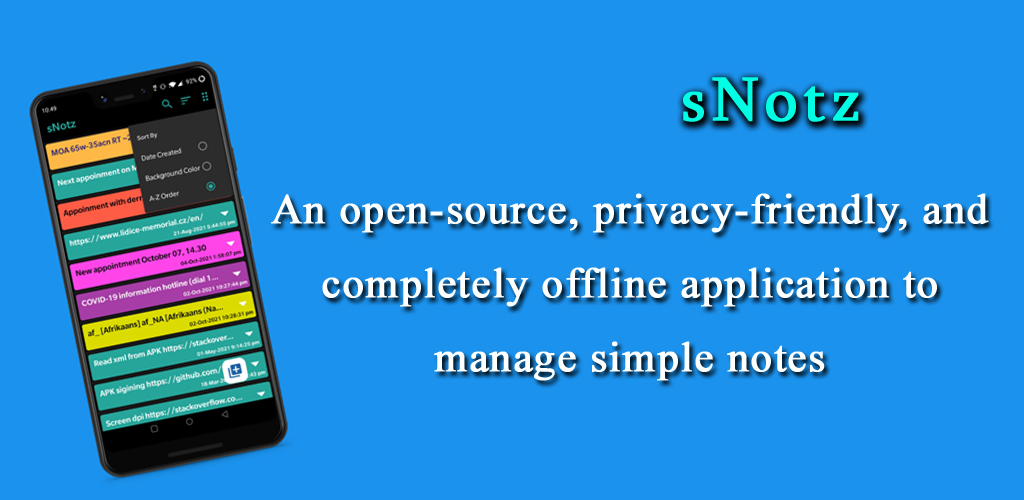
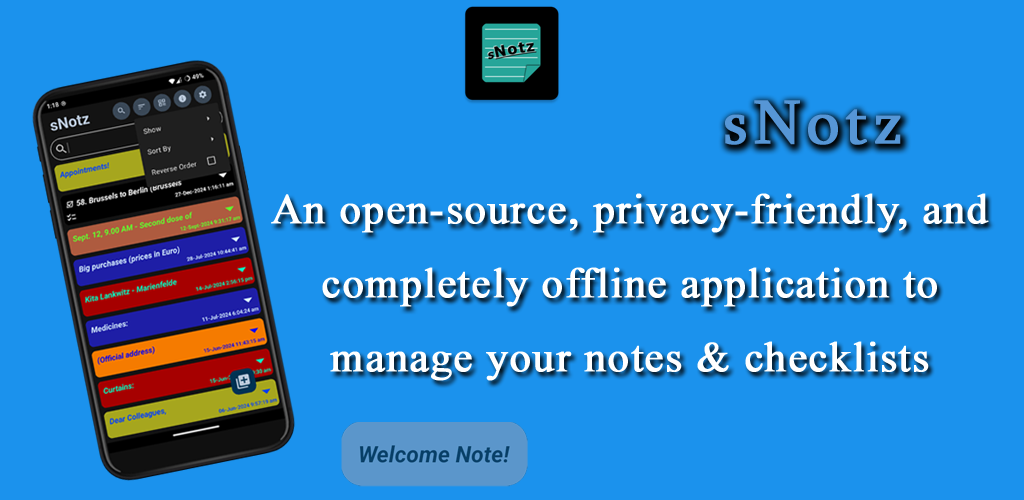
sNotz v0.32

diff --git a/app/src/main/java/com/sunilpaulmathew/snotz/activities/SettingsActivity.java b/app/src/main/java/com/sunilpaulmathew/snotz/activities/SettingsActivity.java
@@ -262,7 +262,7 @@ public class SettingsActivity extends AppCompatActivity {
                         sCommonUtils.getDrawable(R.mipmap.ic_launcher, this),
                         sCommonUtils.getDrawable(R.drawable.ic_back, this),
                         sNotzColor.getAppAccentColor(this),
-                        25, getString(R.string.app_name), "2023-2024, sunilpaulmathew",
+                        25, getString(R.string.app_name), getString(R.string.copyright_text),
                         BuildConfig.VERSION_NAME).launchCredits(this);
             }
         });
@@ -306,7 +306,7 @@ public class SettingsActivity extends AppCompatActivity {
 
     private ArrayList<SettingsItems> getData() {
         ArrayList<SettingsItems> mData = new ArrayList<>();
-        mData.add(new SettingsItems(getString(R.string.app_name) + " " + BuildConfig.VERSION_NAME + " (" + BuildConfig.VERSION_CODE + ")", "Copyright: © 2023-2024, sunilpaulmathew", sCommonUtils.getDrawable(R.drawable.ic_info, this), null));
+        mData.add(new SettingsItems(getString(R.string.app_name) + " " + BuildConfig.VERSION_NAME + " (" + BuildConfig.VERSION_CODE + ")", getString(R.string.copyright, getString(R.string.copyright_text)), sCommonUtils.getDrawable(R.drawable.ic_info, this), null));
         mData.add(new SettingsItems(getString(R.string.app_theme), sThemeUtils.getAppTheme(this), sCommonUtils.getDrawable(R.drawable.ic_theme, this), null));
         mData.add(new SettingsItems(getString(R.string.color_accent), getString(R.string.color_accent_summary), sCommonUtils.getDrawable(R.drawable.ic_rgb, this), null));
         mData.add(new SettingsItems(getString(R.string.security), null, null, null));

diff --git a/README.md b/README.md
@@ -1,12 +1,12 @@
-# sNotz
+# sNotz - Notes & Checklists
 
-<p style="text-align: center"><img src="https://raw.githubusercontent.com/sunilpaulmathew/sNotz/master/fastlane/metadata/android/en-US/images/phoneScreenshots/002.jpg" alt="" width="250" height="450" /> <img src="https://raw.githubusercontent.com/sunilpaulmathew/sNotz/master/fastlane/metadata/android/en-US/images/phoneScreenshots/001.jpg" alt="" width="250" height="450" /> <img src="https://raw.githubusercontent.com/sunilpaulmathew/sNotz/master/fastlane/metadata/android/en-US/images/phoneScreenshots/005.jpg" alt="" width="250" height="450" /></p>
+<p style="text-align: center"><img src="fastlane/metadata/android/en-US/images/phoneScreenshots/001.png?raw=true" alt="" width="250" height="450" /> <img src="fastlane/metadata/android/en-US/images/phoneScreenshots/002.png?raw=true" alt="" width="250" height="450" /> <img src="fastlane/metadata/android/en-US/images/phoneScreenshots/003.png?raw=true" alt="" width="250" height="450" /></p>
 
-[![](https://img.shields.io/badge/sNotz-v0.31-green)](https://play.google.com/store/apps/details?id=com.sunilpaulmathew.snotz)
+[![](https://img.shields.io/badge/sNotz-v0.32-green)](https://play.google.com/store/apps/details?id=com.sunilpaulmathew.snotz)
 ![](https://img.shields.io/github/languages/top/sunilpaulmathew/sNotz)
 ![](https://img.shields.io/github/contributors/sunilpaulmathew/sNotz)
 
-### sNotz is an open-source, privacy-friendly, secure, and completely offline application, which will let you create, customize, and manage simple notes on your android device.
+### sNotz is an open-source, privacy-friendly, secure, and completely offline application, which will let you create, customize, and manage simple notes and checklists on your android device.
 
 ## Download
 [<img src="https://play.google.com/intl/en_us/badges/images/generic/en-play-badge.png"
@@ -20,20 +20,18 @@ alt="Get it on IzzyOnDroid"
 height="80">](https://apt.izzysoft.de/fdroid/index/apk/com.sunilpaulmathew.snotz)
 [<img src="https://i.ibb.co/q0mdc4Z/get-it-on-github.png"
 alt="Get it on GitHub"
-height="80">](https://github.com/sunilpaulmathew/sNotz/releases/download/v0.31/app-fdroid-release.apk)
+height="80">](https://github.com/sunilpaulmathew/sNotz/releases/download/v0.32/app-fdroid-release.apk)
 
 ## Features
-* Easily create & manage simple notes.
-* Secure notes with biometric/PIN authentications.
+* Easily create & manage simple notes & checklists.
+* Secure notes & checklists with biometric/PIN authentications.
 * Use custom colors (background and text) for individual notes.
-* Optionally include an image (not recommended for the sake of UI response) with each note.
-* Sort notes alphabetically, or by date or background color.
+* Sort notes & checklists alphabetically, or by date or background color.
 * Creating secret notes that are hidden from the main UI by default.
-* Create, import, and share checklists.
-* Swipe (left or right) to delete notes/checklists.
-* Create beautiful home screen widgets of notes and checklists.
-* Create reminders (for individual notes).
-* Export and easily share notes via third-party apps.
+* Swipe (left or right) to delete note or checklist.
+* Create beautiful home screen widgets of notes & checklists.
+* Create reminders for individual notes & checklists.
+* Export and easily share notes or checklists via third-party apps.
 * No cloud storage or login requirements. sNotz works completely offline.
 * Offers a simple backup/restore functionality for those who want to get old notes on a new device.
 
@@ -73,7 +71,7 @@ A list of people who contributed to this project is available [here](Credits.md)
 
 ## License
 
-    Copyright (C) 2023-2024 sunilpaulmathew <sunil.kde@gmail.com>
+    Copyright (C) 2025-2026 sunilpaulmathew <sunil.kde@gmail.com>
 
     sNotz is a free softwares: you can redistribute it and/or modify it
     under the terms of the GNU General Public License as published by the

diff --git a/docs/_pages/faq.md b/docs/_pages/faq.md
@@ -12,9 +12,9 @@ sNotz is an open-source, privacy-friendly, and completely offline application, w
 
 <hr>
 
-<h3 style="color: green">Q2: Who is sNotz for?</h3>
+<h3 style="color: green">Q2: To whom sNotz made for?</h3>
 
-sNotz is for made everyone who loves simplicity, privacy, and security.
+sNotz is made for everyone who loves simplicity, privacy, and security.
 
 <hr>
 
@@ -32,7 +32,7 @@ Single clicking on an individual note allows the user to "Edit" a note where as 
 
 <h3 style="color: green">Q5: Can I backup/restore my notes?</h3>
 
-sNotz offers a simple backup and restore feature. Both features shall be found in the Settings page.
+sNotz offers a simple backup and restore mechanism. Both shall be found in the Settings page.
 
 <hr>
 
@@ -54,15 +54,15 @@ All the notes and checklists are saved locally on user's device. Moreover, the d
 
 <hr>
 
-<h3 style="color: green">Q9: I am still worried about the privacy of my notes?</h3>
+<h3 style="color: green">Q9: I am still worried about the safety and privacy of my notes?</h3>
 
 You are invited to inspect the source code of sNotz.
 
 <hr>
 
-<h3 style="color: green">Q10: Where exactly my notes/checklists are stogreen?</h3>
+<h3 style="color: green">Q10: Where exactly my notes & checklists stored?</h3>
 
-All the notes are stogreen locally in "json" format within the files directory (/data/data/com.sunilpaulmathew.snotz/files/) of sNotz. Each checklists are however saved as a separate file in the external files directory (/sdcard/Android/com.sunilpaulmathew.snotz/files/checklists/).
+All the notes & checklists are stored locally in "json" format within the files directory (/data/data/com.sunilpaulmathew.snotz/files/) of sNotz.
 
 <hr>
 

diff --git a/docs/_pages/changelog.md b/docs/_pages/changelog.md
@@ -6,6 +6,13 @@ include_in_header: true
 
 <h2 style="color: blue">What's New</h2>
 
+<h3 style="color: green">v0.32</h3>
+- Modern app UI.
+- Seamless integration of notes and checklists.
+* Fixed bugs and improved coding style.
+- Updated translations.
+- Miscellaneous changes.
+
 <h3 style="color: green">v0.31</h3>
 - sNotz now lists notes and checklists together.
 - App now request notification permission on Android 13 & above.
